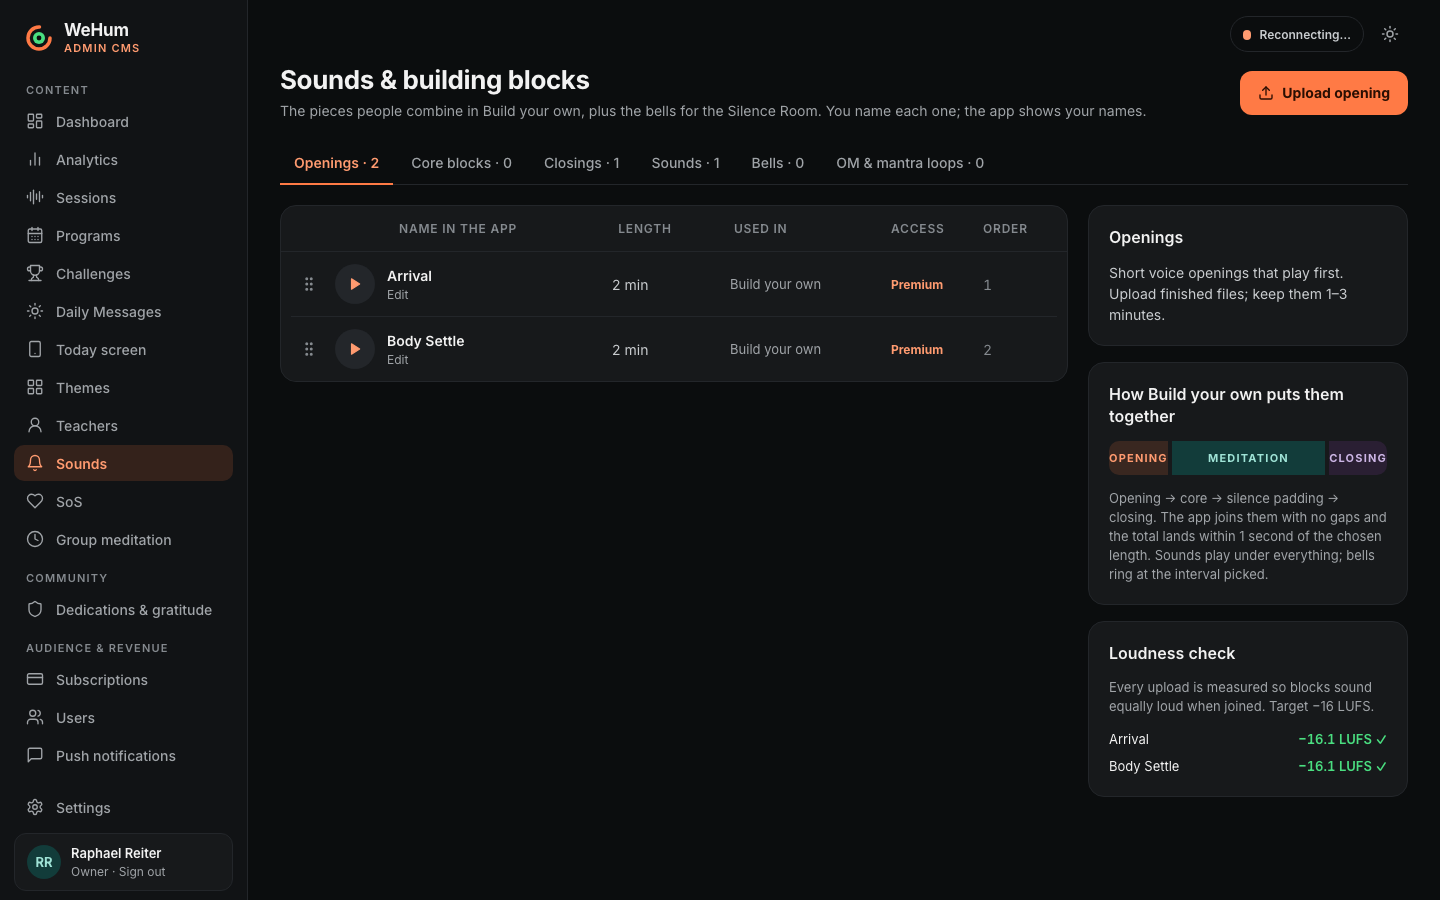
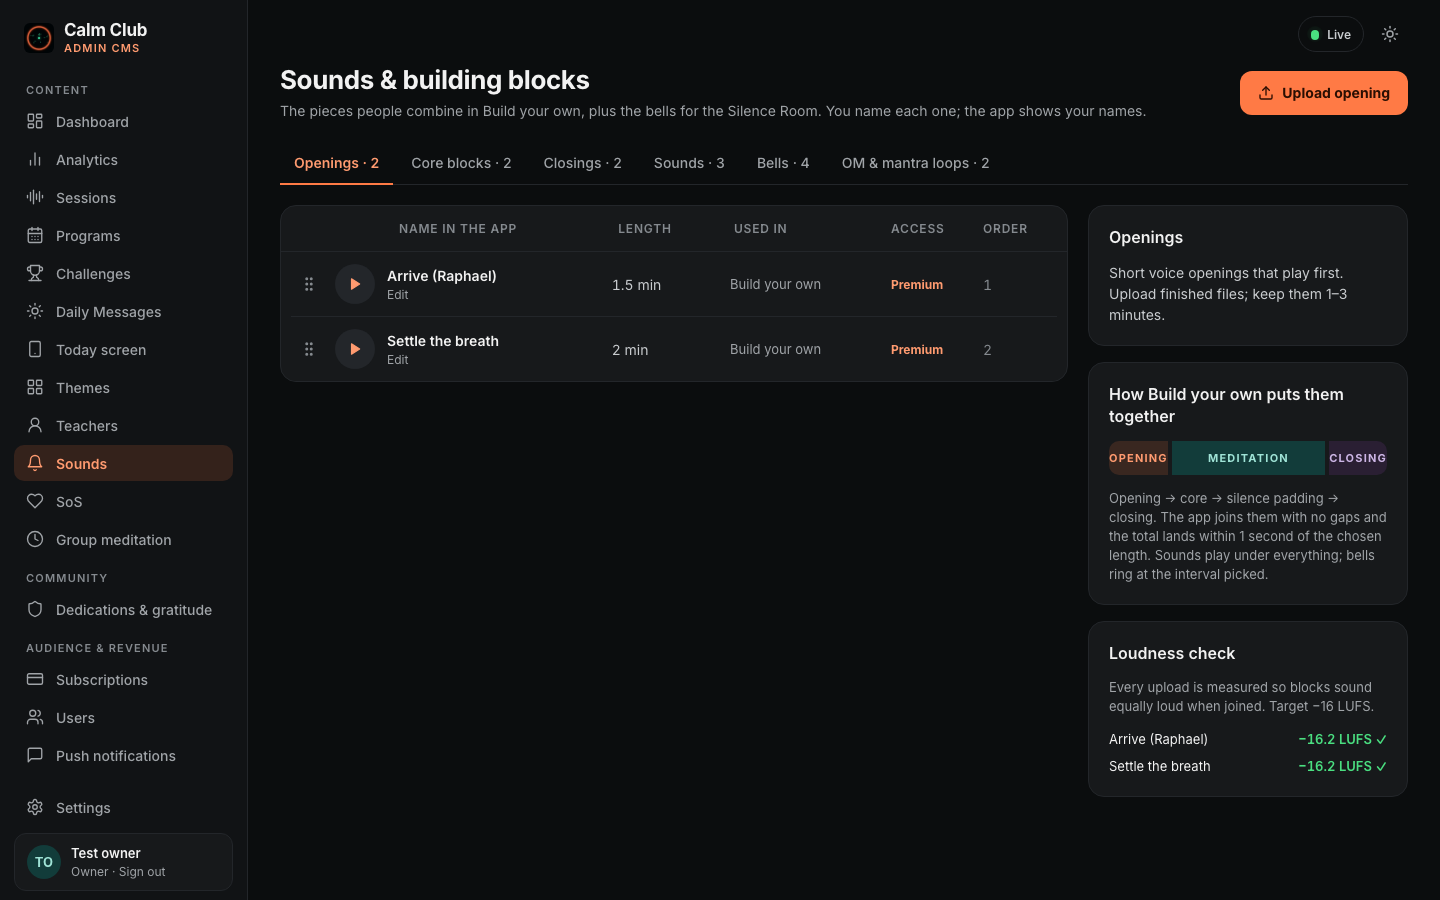
Docs: phase reports for profile, branding, push limit, scheduling, motion and Stitch fidelity

diff --git a/WeHum_CMS_Spec.md b/WeHum_CMS_Spec.md
@@ -785,3 +785,16 @@ Decisions / deviations:
 - The Playwright suites (`e2e`) were not re-run in this phase; the screenshots come from the mock-API dev server.
 
 Status: ✅ done
+
+
+### Phase S2 — Branding, notification limit, delivery report, scheduling (Oct 12)
+Built (design renders in `design/screens/S*.png`, regenerated against the real backend with the demo audience):
+- **Settings → App content**: *Branding* (app name, tagline, logo upload, "use the default logo") and *Notification limit* (pushes per person per day). The CMS sidebar and sign-in screen show the saved name and logo.
+- **Push notifications**: *Delivery per day* (sent, opened %, people, average per person, people at the limit; the tooltip lists the kinds).
+- **Daily Messages**: *Goes live at* (for scheduled days) and *Push at* (empty = each person's reminder time).
+- **Users**: username (`@name`) and photo in the list and detail, search by `@username`, last pushes in the detail.
+- Fix: the time field in *Sit times* was cut ("06:30 A"); the challenge unlock-time field was cramped.
+
+Tests run: `pnpm exec vitest run` → 33 files, 512 passed (with `--maxWorkers=3 --testTimeout=30000` when the machine is busy); `tsc` and `eslint` clean.
+
+Status: ✅ done
